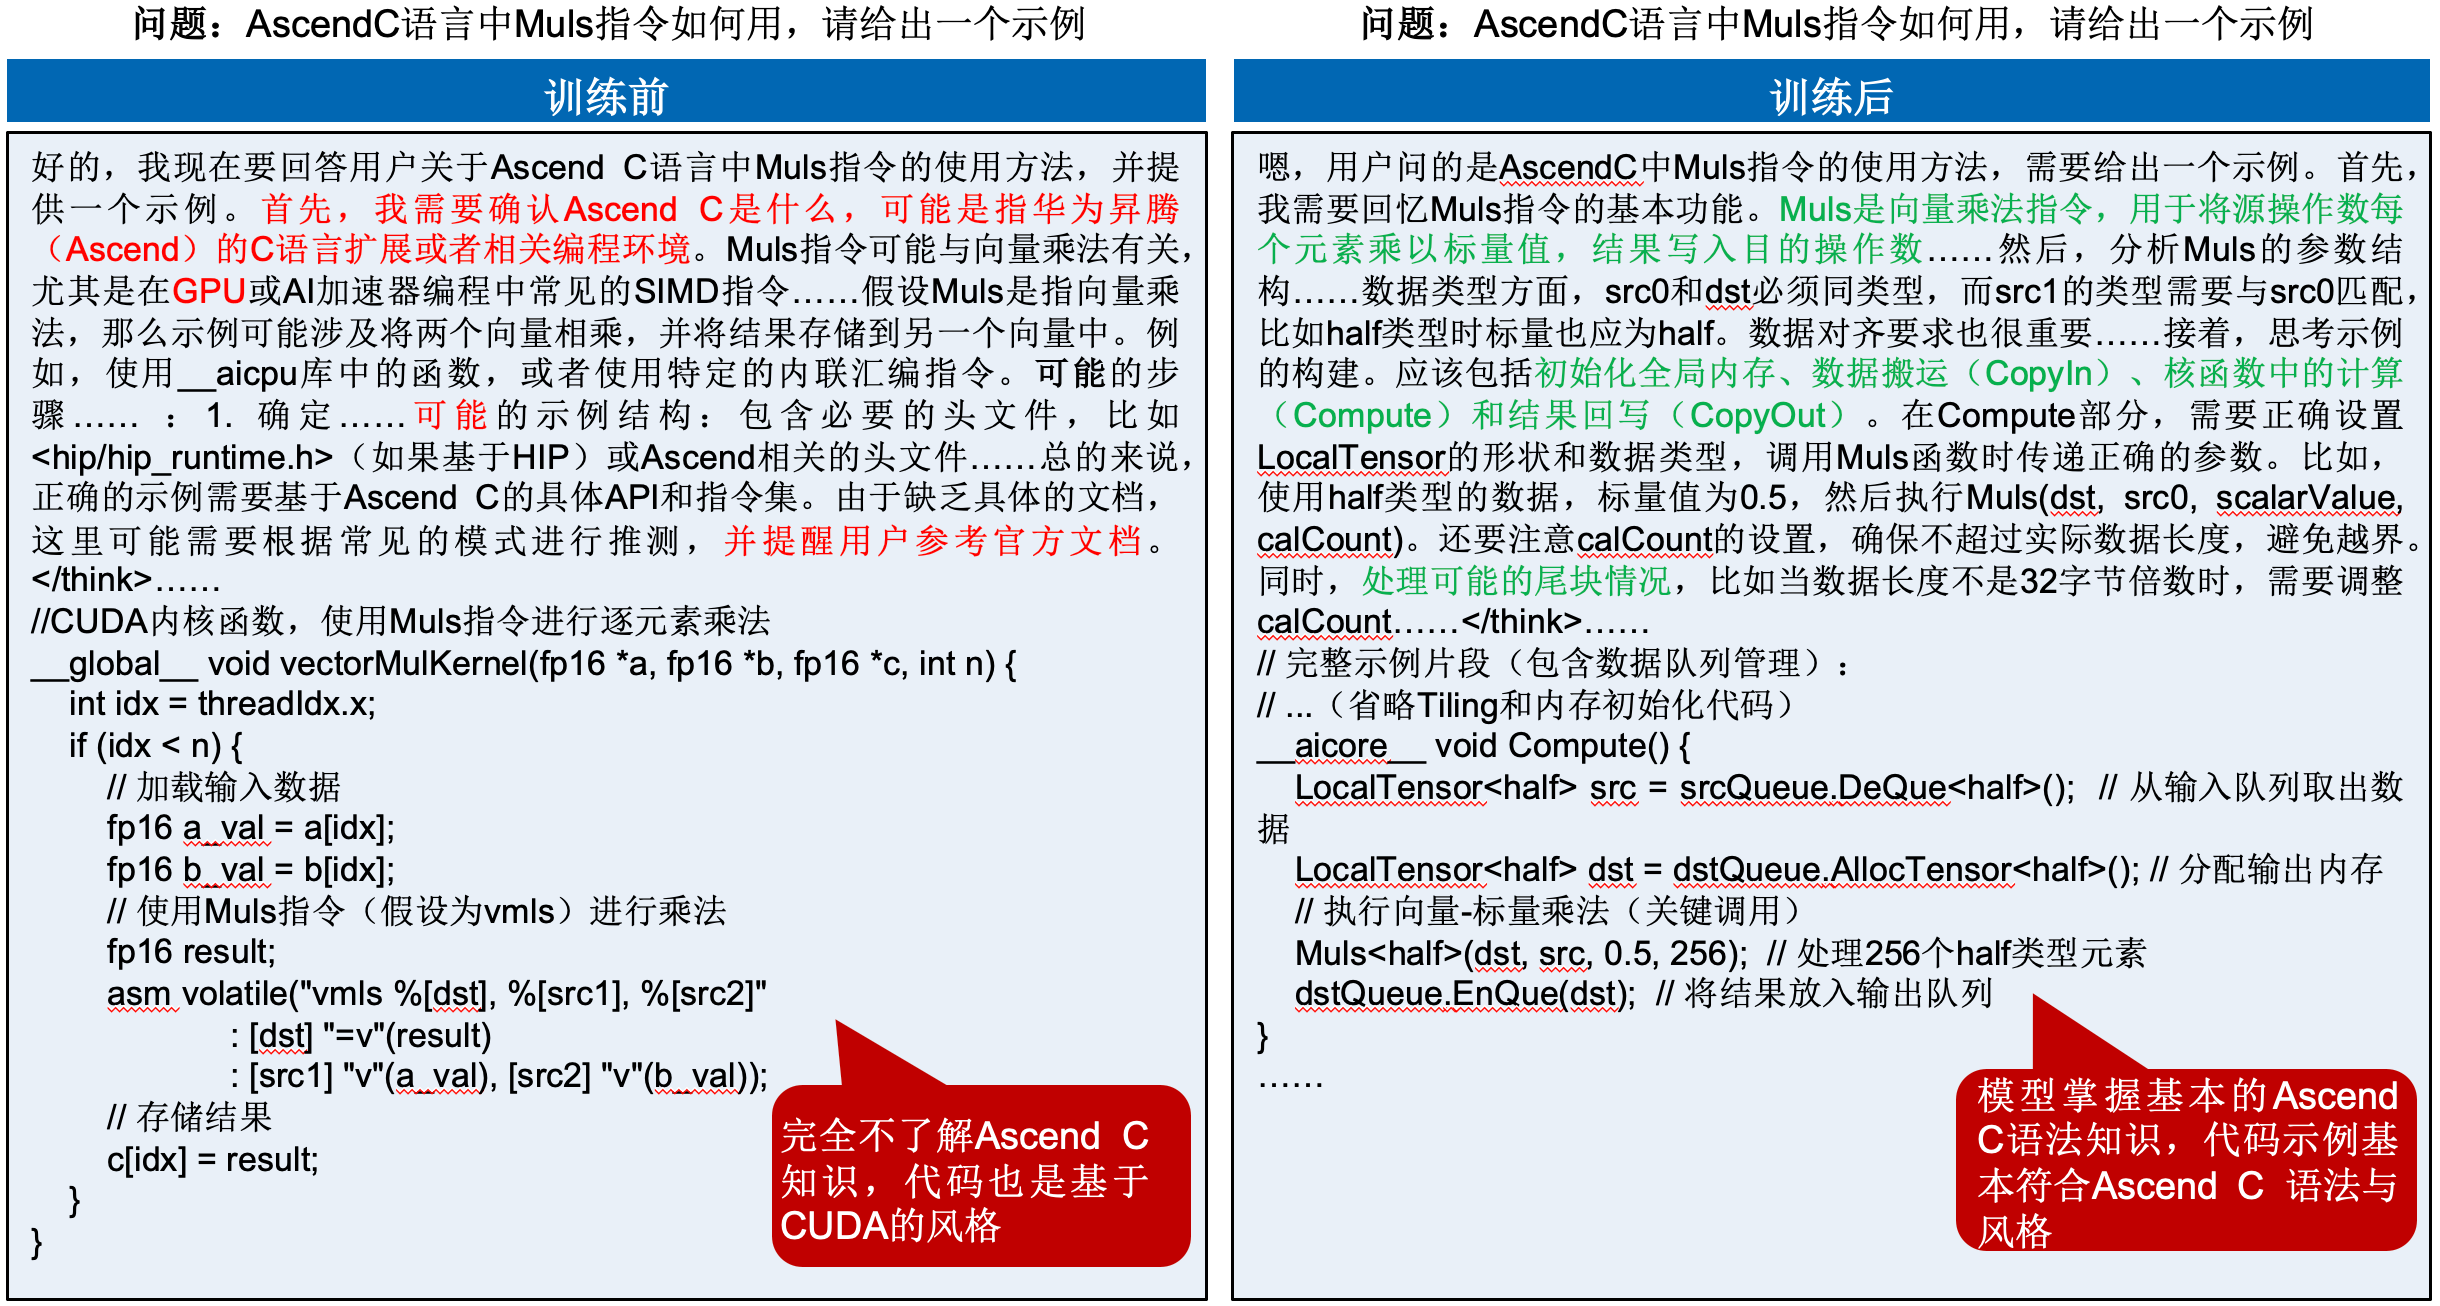
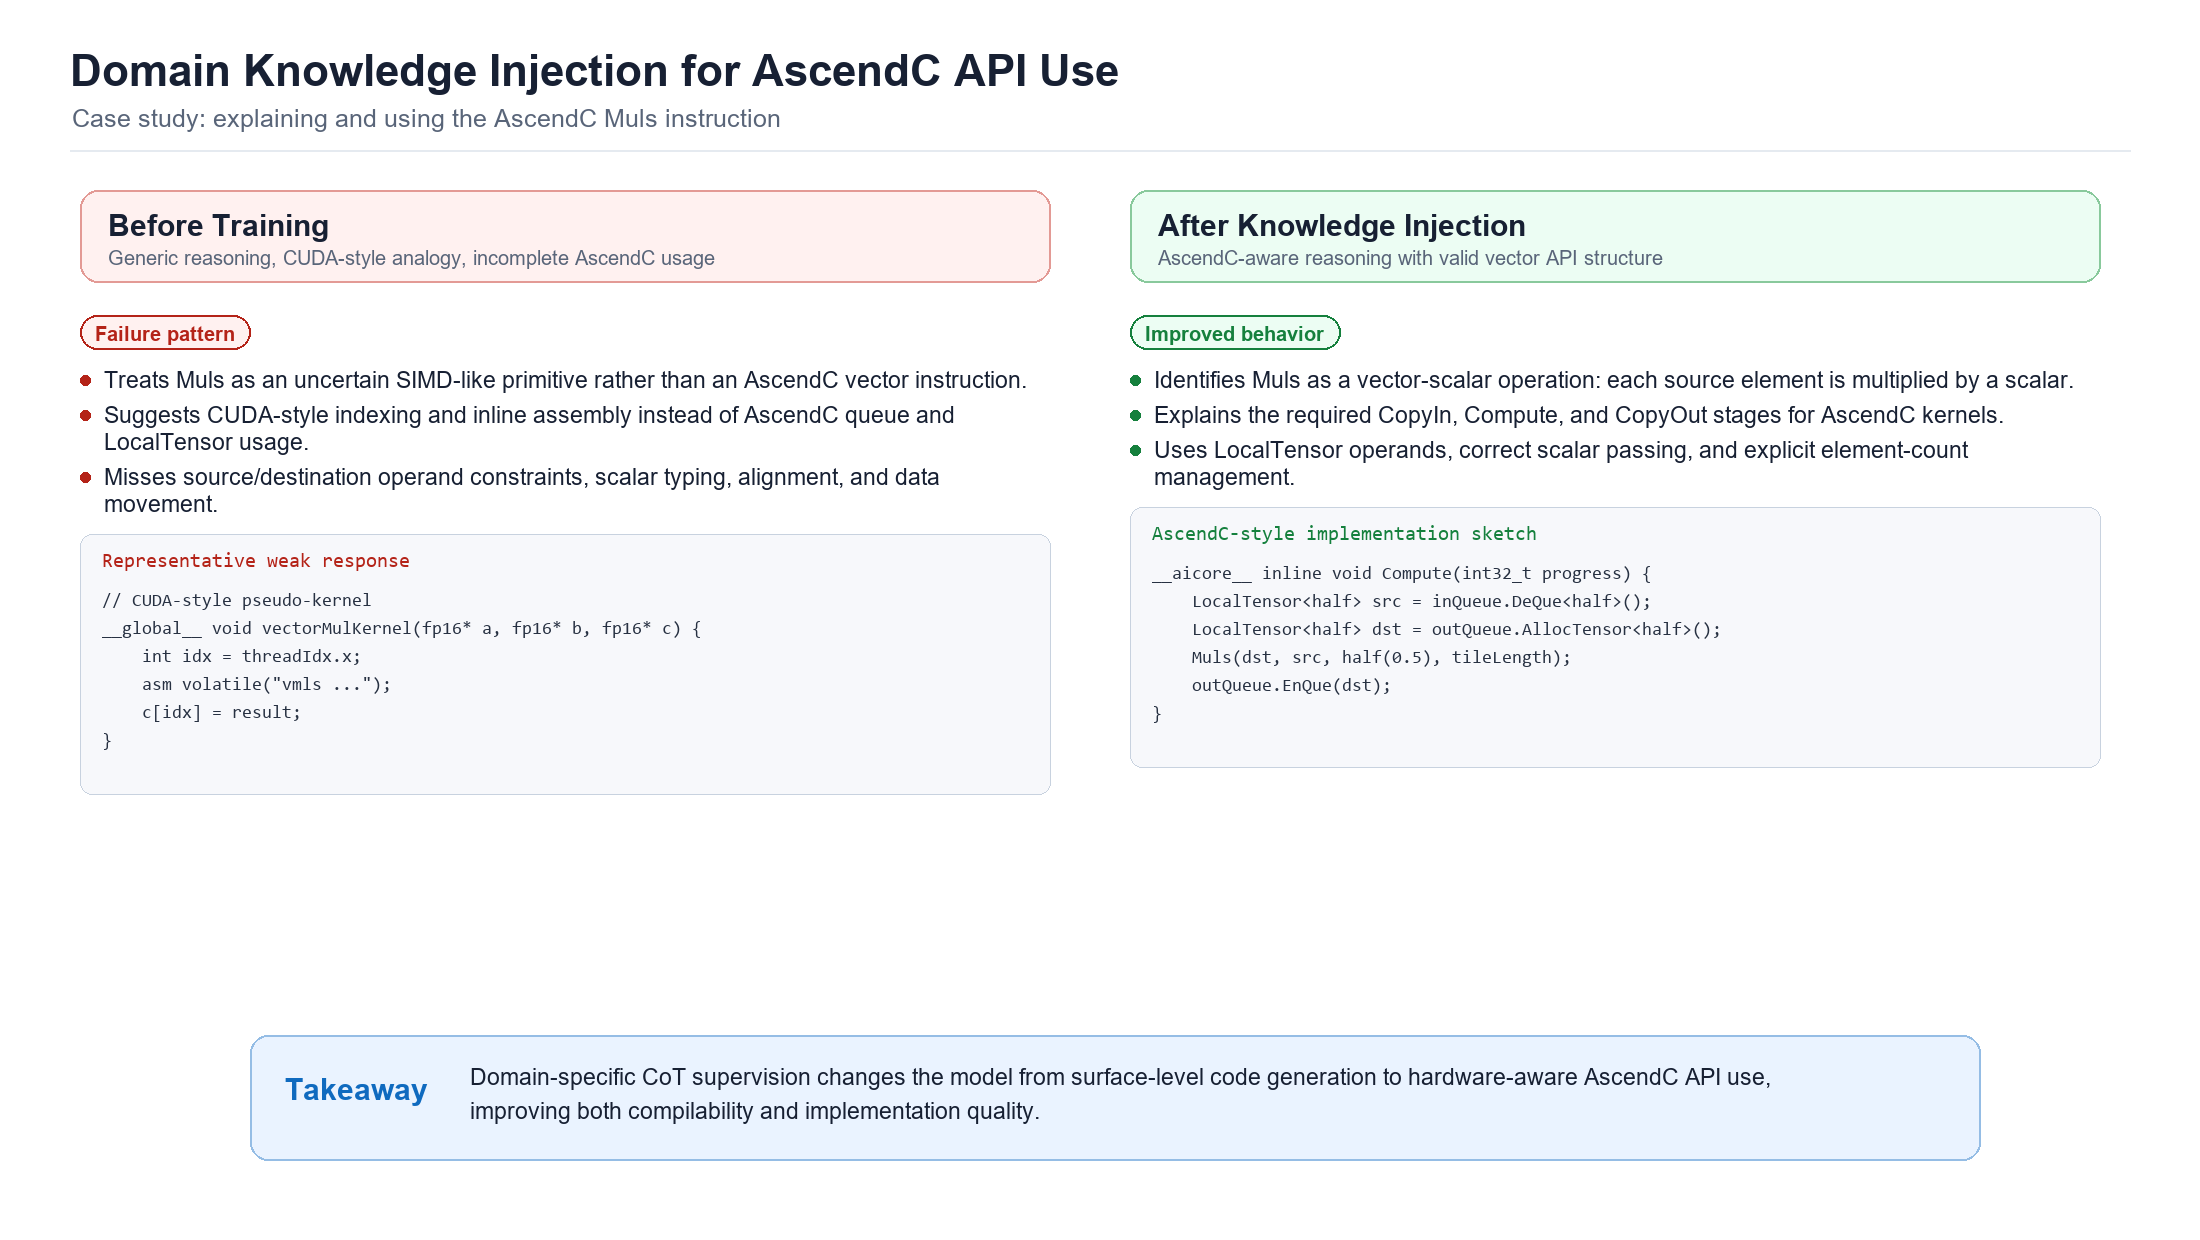
Improve repository presentation

diff --git a/README.md b/README.md
@@ -1,10 +1,33 @@
-# NPUKernelBench V2.0: Benchmarking LLM-Driven AscendC Kernel Generation
+# NPUKernelBench V2.0
 
 [[License](https://img.shields.io/badge/license-Apache%202.0-blue.svg)](LICENSE)
+![AscendC](https://img.shields.io/badge/AscendC-kernel%20generation-0f6abf)
+![Huawei Ascend](https://img.shields.io/badge/Huawei%20Ascend-NPU%20benchmark-c62828)
+![LLM](https://img.shields.io/badge/LLM-code%20generation-6b46c1)
+
+**Benchmarking LLM-driven AscendC kernel generation for Huawei Ascend NPUs.**
 
 NPUKernelBench is a benchmark and evaluation framework for studying automated operator generation on Huawei Ascend NPUs. The benchmark focuses on AscendC kernel synthesis, compilation, numerical validation, and performance-oriented analysis under realistic operator-development constraints.
 
 The V2.0 release extends the feasibility-oriented V1.0 benchmark with a larger operator suite and a domain-knowledge-injected model trained on high-quality Chain-of-Thought (CoT) supervision. The model is designed to internalize AscendC programming conventions, hardware-aware tiling strategies, and operator implementation patterns. Given natural-language requirements or formal operator descriptions, it can generate more than 50 usable AscendC kernels, representing a 400% increase over V1.0 and a substantial improvement in implementation quality and practical usability.
+
+## At a Glance
+
+NPUKernelBench evaluates whether language models can produce deployable NPU operator kernels rather than only syntactically plausible code. Each generated implementation is tested through the same stages that AscendC developers face in practice: source generation, CANN/MSOPGEN compilation, numerical validation against PyTorch references, and optional latency measurement on Ascend hardware.
+
+| Focus | What NPUKernelBench Provides |
+| --- | --- |
+| **Benchmark tasks** | A hierarchical operator suite covering elementary, composite, and advanced AscendC kernels. |
+| **Generation pipeline** | Prompt construction, model serving integration, code extraction, and candidate-kernel management. |
+| **Evaluation protocol** | Compilation checks, precision validation, and performance-oriented measurement hooks. |
+| **Research artifacts** | English task specifications, validation references, workflow diagrams, and case-study figures. |
+
+## Documentation Map
+
+- [Benchmark Task Design](./docs/BENCHMARK_TASKS.md): task hierarchy, operator categories, and benchmark coverage.
+- [Benchmark Evaluation](./docs/BENCHMARK_EVALUATION.md): compilation, correctness, and performance metrics.
+- [LLM Kernel Generation](./docs/LLM_KERNEL_GENERATION.md): prompt construction and generated-code handling.
+- [Start vLLM Server](./docs/START_VLLM_SERVER.md): model-serving setup for generation experiments.
 
 ## Core Contributions
 